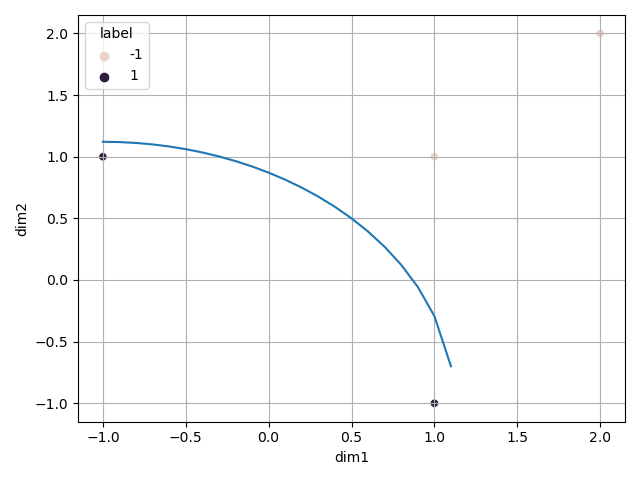
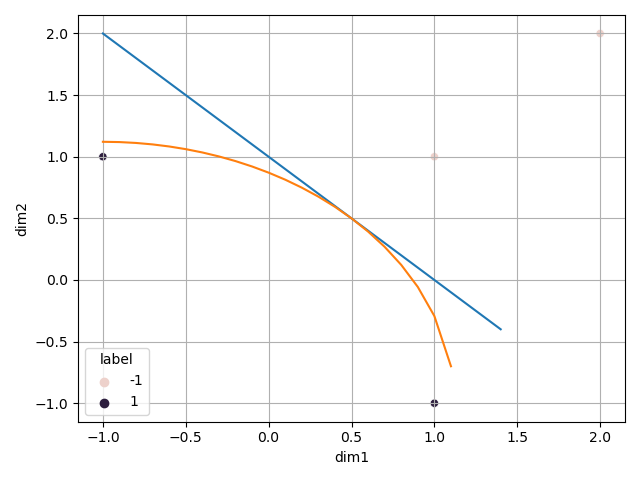
solved 3b

diff --git a/homeworks/unit1_linearclass_generalization/3b_decis_boundaries.py b/homeworks/unit1_linearclass_generalization/3b_decis_boundaries.py
@@ -25,6 +25,20 @@ x_circle = np.arange(-1, 1.2, step=0.1)
 radius = 3*0.5*np.sqrt(2)
 y_circle = np.sqrt(radius**2-(x_circle+1)**2)-1
 
+# Linear classifier
+x_t = np.arange(-1, 1.5, 0.1)
+y_line = -1*x_t + 1
+
+plt.plot(x_t, y_line)
+
 plt.plot(x_circle, y_circle)
+
+theta = [-1, -1]
+theta_0 = 1
+
+for index, x in enumerate(X):
+    # print('yx*theta: ', y[index] * np.dot(x, theta))
+    print('theta * xi + theta_0: ', np.dot(theta, x) + theta_0, 'label (yi): ', y[index])
+
 
 fig.savefig('3b_decis_boundaries.png')
